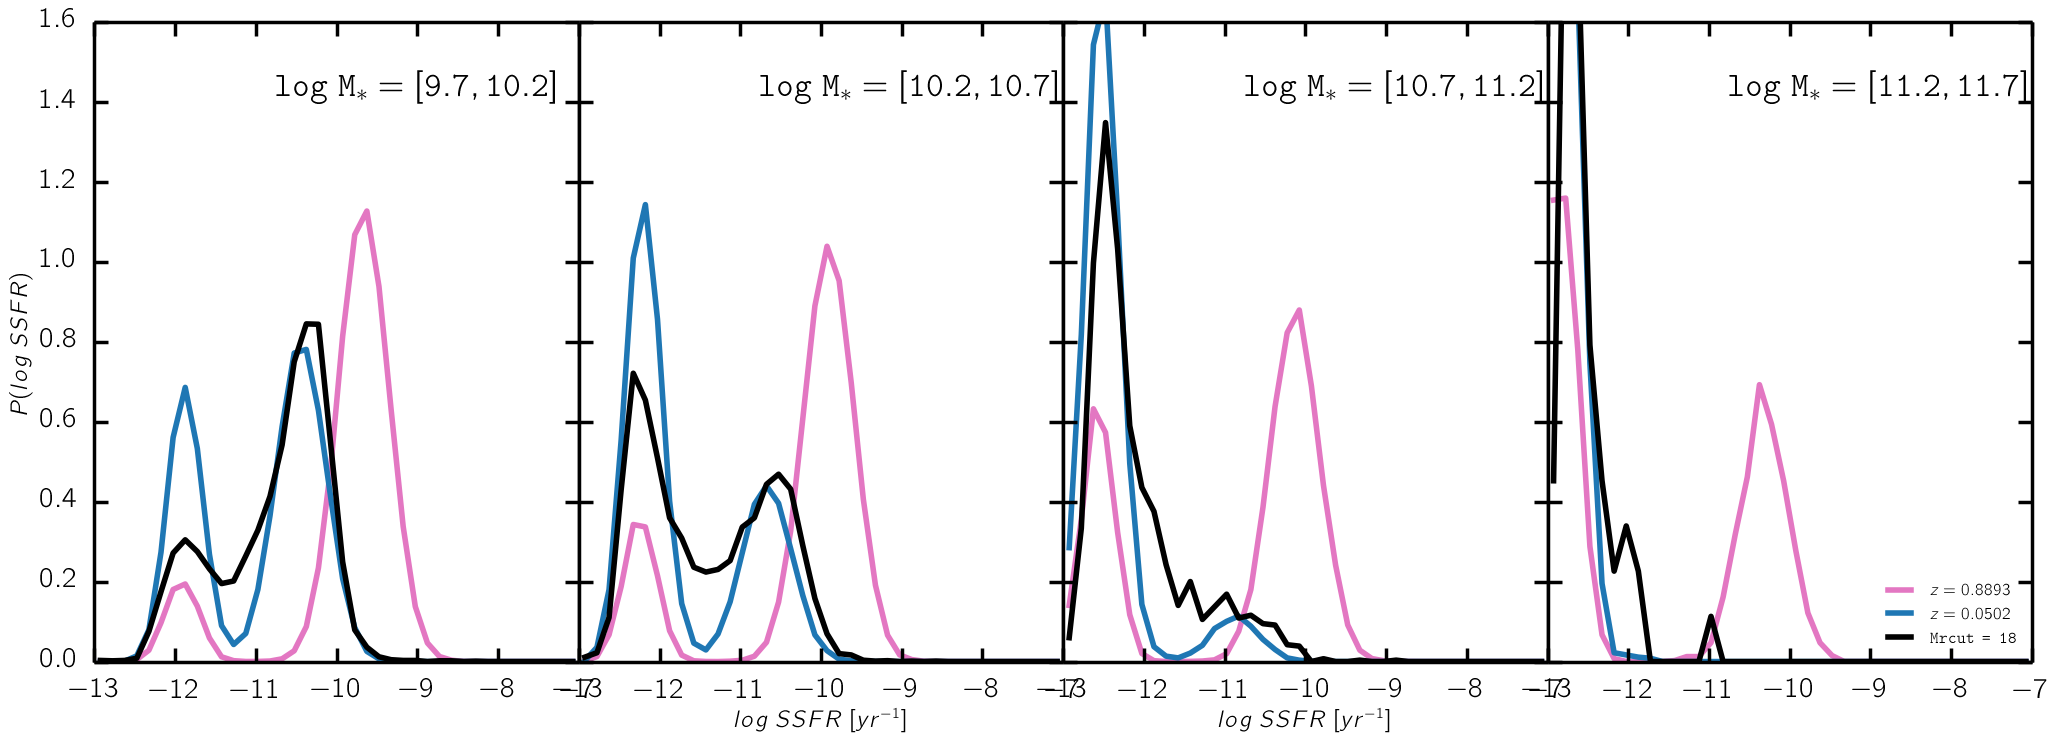
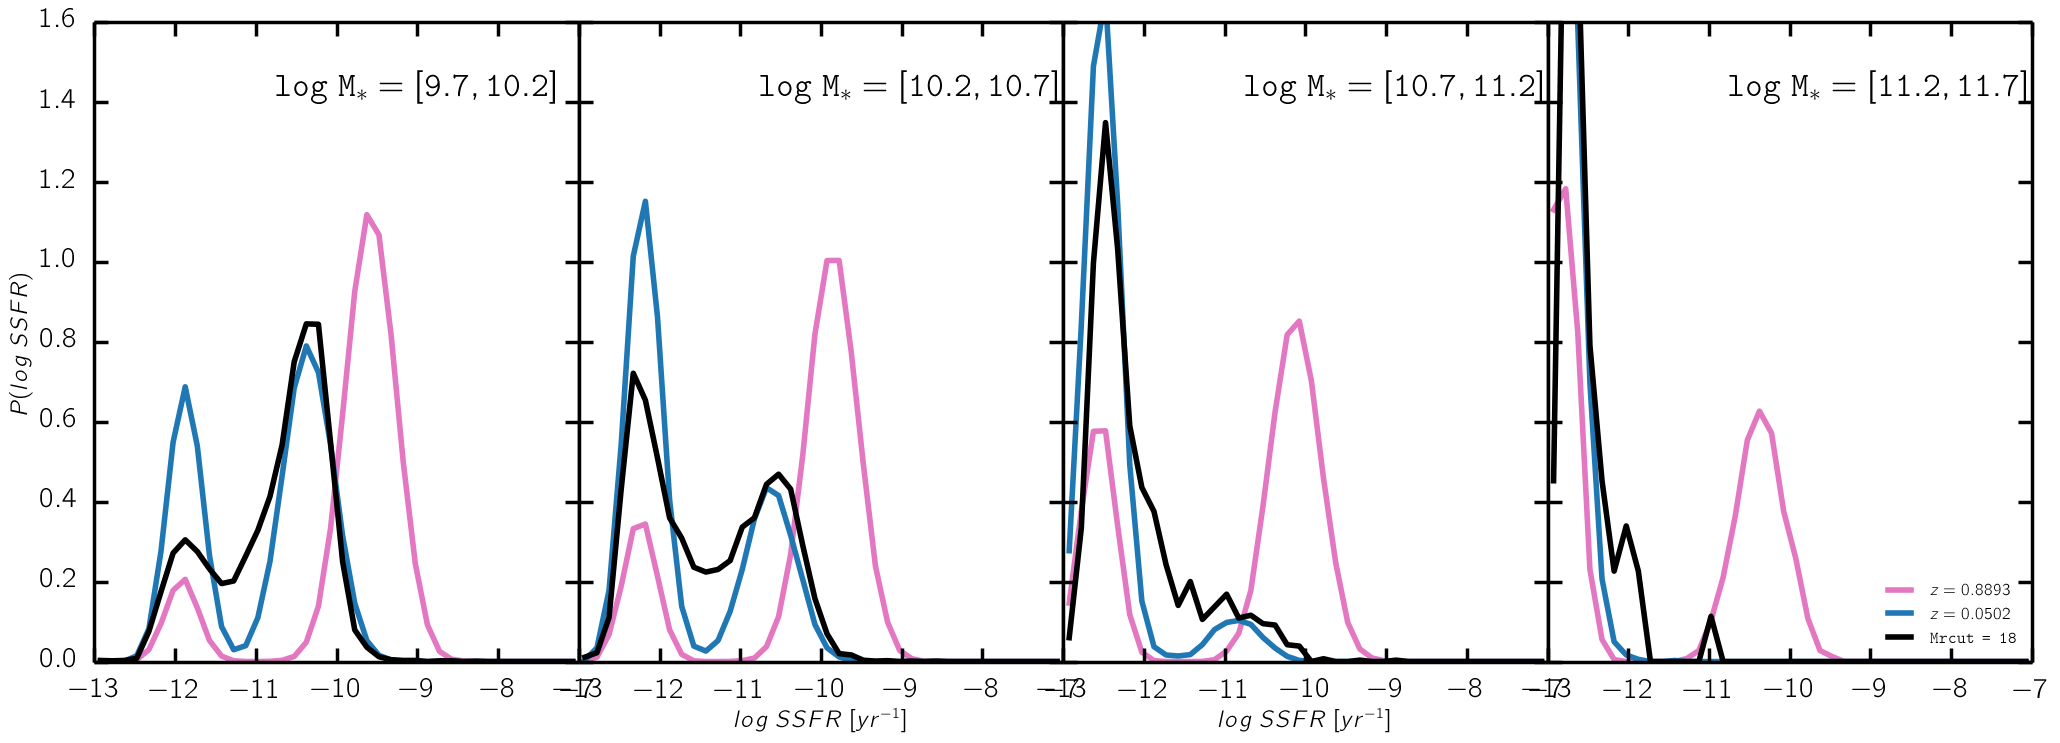
Adjustments made to SFMS fitting, but still needs work

diff --git a/cenque_plot.py b/cenque_plot.py
@@ -45,7 +45,8 @@ def plot_cenque_ssfr_dist(cenque, fig=None, **kwargs):
         # SSFR histogram 
         ssfr_hist, ssfr_bin_edges = np.histogram(cenque.ssfr[mass_limit], 
                 range=[-13.0, -7], bins=40, normed=True)
-        
+        ngal_bin = len(cenque.ssfr[mass_limit])
+
         # SSFR bins 
         ssfr_bin_low = ssfr_bin_edges[:-1]
         ssfr_bin_high = ssfr_bin_edges[1:]
@@ -78,7 +79,8 @@ def plot_cenque_ssfr_dist(cenque, fig=None, **kwargs):
         sub = fig.add_subplot(1, 4, i_mass+1)       # panel subplot 
         sub.plot(ssfr_bin_mid, ssfr_hist, 
                 color=line_color, lw=4, ls=line_style, label=ssfr_hist_label) 
-        
+
+        #sub.text(-12.0, 1.2, r'$N_{gal}='+str(ngal_bin)+'$')
         if new_plot == True:        # put mass labels in panels 
             plt.text(-10.75, 1.4, 
                     r'$\mathtt{log \; M_{*} = ['+str(panel_mass[0])+', '+str(panel_mass[1])+']}$', 
@@ -395,13 +397,11 @@ def plot_group_cat_bigauss_bestfit():
     plot_sdss_group_cat_bestfit(Mrcut=20)
 
 # SF-MS ---------------------------
-def plot_sfms_data(lowz_slope, lowz_yint, Mrcut=18): 
+def plot_sfms_data(Mrcut=18): 
     ''' Plot StarForming Main Sequence from iSEDfit data and flexible SFMS fit function 
 
     Parameters
     ----------
-    lowz_slope : designated low-z SDSS SF-MS slope
-    lowz_yint : designated low-z SDSS SF-MS y-intercept
 
     '''
     prettyplot()        # make pretty 
@@ -412,15 +412,6 @@ def plot_sfms_data(lowz_slope, lowz_yint, Mrcut=18):
 
     fig, subs = plt.subplots(1, len(zbins), figsize=[20, 5]) 
     subs = subs.ravel() 
-
-    # SDSS group catalog best fit 
-    #groupcat_slope, groupcat_yint = sfms.sdss_groupcat_sfms_bestfit()
-    #subs[0].plot(
-    #        np.array(mass_bin.mass_mid), 
-    #        (groupcat_slope * (np.array(mass_bin.mass_mid)-10.5)) + groupcat_yint, 
-    #        c='k', lw=6, ls='--') 
-
-    zmids, slopes, yints = sfms.get_sfmsfit_sfr(lowz_slope, lowz_yint, clobber=True) 
 
     fits = [] 
     for i_z, zbin in enumerate(zbins): 
@@ -445,12 +436,13 @@ def plot_sfms_data(lowz_slope, lowz_yint, Mrcut=18):
             #centrals = cq_group.central_catalog(Mrcut=Mrcut) 
             #subs[i_z].hist2d(centrals.mass, centrals.sfr, bins=[30, 1000])
             centrals = sfms.sf_centrals(Mrcut=Mrcut) 
-            subs[i_z].hist2d(centrals.mass, centrals.sfr, bins=[30, 100])
+            subs[i_z].hist2d(centrals.mass, centrals.sfr, bins=[30, 50])
 
         subs[i_z].errorbar(mass, avg_sfrs, yerr=var_sfrs, 
                 lw=4, c=pretty_colors[1], label='Avg SFR (EnvCount)')
 
         if i_z == 0: 
+            # plot bestfit line for envcount SF-MS 
             param = sfms.get_bestfit_envcount_sfms()
             subs[i_z].plot(mass, param[0]*(np.array(mass)-10.5) + param[1], 
                     c=pretty_colors[2])
@@ -474,19 +466,14 @@ def plot_sfms_data(lowz_slope, lowz_yint, Mrcut=18):
             subs[i_z].errorbar(mass, avg_sfrs, yerr=var_sfrs, 
                     lw=4, c=pretty_colors[3], label='Avg SFR (GroupCat)')
 
-        #print str(zbin[0]) + ' < ' + str(zmids[i_z]) + ' < ' + str(zbin[1])
-        subs[i_z].plot(mass, slopes[i_z]*(np.array(mass)-10.5) + yints[i_z], c=pretty_colors[2])
-    
         bestfit_sfr = [] 
         for m in mass: 
-            blah = util.get_sfr_mstar_z_bestfit(m, 0.5*(zbin[0]+zbin[1]))
+            blah = util.get_sfr_mstar_z_bestfit(m, 0.5*(zbin[0]+zbin[1]), clobber=True)
             bestfit_sfr.append(blah[0]) 
 
         subs[i_z].plot(mass, bestfit_sfr, c=pretty_colors[3])
         
         subs[i_z].text(10.0, 1.25, '$\mathtt{z \sim '+str(0.5*(zbin[0]+zbin[1]))+'}$') 
-        subs[i_z].text(10.75, -0.75,'slope= '+str('%.2f' % slopes[i_z])) 
-        subs[i_z].text(10.75, -1.0, 'y-int= '+str('%.2f' % yints[i_z])) 
 
         subs[i_z].set_xlim([9.5, 12.0]) 
         subs[i_z].set_ylim([-1.5, 1.5]) 
@@ -497,8 +484,7 @@ def plot_sfms_data(lowz_slope, lowz_yint, Mrcut=18):
         #if i_z == 3: 
         #    subs[i_z].legend()
     
-    fig_file = ''.join(['figure/tinker/', 
-        'sf_ms_data_', str("%.2f" % lowz_slope), '_', str("%.2f" % lowz_yint), '.png'])
+    fig_file = ''.join(['figure/', 'sf_ms_data.png'])
     fig.savefig(fig_file, bbox_inches='tight')
     fig.clear() 
 
@@ -542,7 +528,7 @@ def plot_sfms_groupcat(Mrcut=18):
         var_sfrs.append(var_sfr)
         
     sf_cen = sfms.sf_centrals(Mrcut=Mrcut) 
-    subs.hist2d(sf_cen.mass, sf_cen.sfr, bins=[30, 100])
+    subs.hist2d(sf_cen.mass, sf_cen.sfr, bins=[30, 50])
     #subs[i_z].scatter(centrals.mass, centrals.sfr, s=2, color=pretty_colors[3]) 
     #centrals = cq_group.central_catalog(Mrcut=19) 
     #subs[i_z].scatter(centrals.mass, centrals.sfr, s=2, color=pretty_colors[4]) 
@@ -552,7 +538,7 @@ def plot_sfms_groupcat(Mrcut=18):
     subs.errorbar(mass, avg_sfrs, yerr=var_sfrs, 
             lw=4, c=pretty_colors[1], label='Average SFR')
 
-    bestfit_params = sfms.get_bestfit_groupcat_sfms(Mrcut=Mrcut) 
+    bestfit_params = sfms.get_bestfit_groupcat_sfms(Mrcut=Mrcut, clobber=True) 
     subs.plot(mass, util.line(np.array(mass)-10.5, bestfit_params), 
             lw=4, ls='--', c=pretty_colors[2], label='MPfit line') 
     subs.text(11.25, 0.0, 'Slope = '+str("%.2f" % bestfit_params[0]))
@@ -564,8 +550,62 @@ def plot_sfms_groupcat(Mrcut=18):
     subs.set_ylabel('log(SFR)') 
     subs.legend(loc='upper right') 
     
-    fig_name = ''.join(['figure/tinker/',
-        'sf_ms_groupcat_', str(Mrcut), '.png'])
+    fig_name = ''.join(['figure/', 'sf_ms_groupcat_', str(Mrcut), '.png'])
+    fig.savefig(fig_name, bbox_inches='tight')
+    fig.clear()
+
+def plot_ssfms_groupcat(Mrcut=18):
+    ''' Plot Specific SF Main Sequence (mass vs SFR) from Star-Forming SDSS group catalog  
+
+    Parameters
+    ----------
+    None
+
+    '''
+    prettyplot()        # make pretty 
+    pretty_colors = prettycolors() 
+
+    mass_bin = util.simple_mass_bin()       # mass bin 
+
+    fig = plt.figure(1)#, figsize=[7,5])
+    subs = fig.add_subplot(111) 
+
+    mass, avg_sfrs, var_sfrs, avg_ssfrs = [], [], [], [] 
+    for i_mass in range(len(mass_bin.mass_low)): 
+        avg_sfr, var_sfr, ngal = sfms.get_sfr_mstar_z_groupcat(mass_bin.mass_mid[i_mass], 
+                Mrcut=Mrcut) 
+
+        if ngal < 10: 
+            continue    # skip mass bin if there aren't many galaxies
+
+        if mass_bin.mass_mid[i_mass] < 9.5: 
+            continue    # skip low mass
+
+        mass.append(mass_bin.mass_mid[i_mass]) 
+        avg_sfrs.append(avg_sfr)
+        var_sfrs.append(var_sfr)
+        avg_ssfrs.append(avg_sfr-mass_bin.mass_mid[i_mass])
+    
+    # 2D histogram of centrals
+    sf_cen = sfms.sf_centrals(Mrcut=Mrcut) 
+    subs.hist2d(sf_cen.mass, sf_cen.ssfr, bins=[30, 50])
+
+    subs.errorbar(mass, avg_ssfrs, yerr=var_sfrs, 
+            lw=4, c=pretty_colors[1], label='Average SFR')
+
+    bestfit_params = sfms.get_bestfit_groupcat_sfms(Mrcut=Mrcut, clobber=True) 
+    subs.plot(mass, util.line(np.array(mass)-10.5, bestfit_params) - np.array(mass), 
+            lw=4, ls='--', c=pretty_colors[2], label='MPfit line') 
+    subs.text(11.25, -10.0, 'Slope = '+str("%.2f" % bestfit_params[0]))
+    subs.text(11.25, -10.5, 'Y-int = '+str("%.2f" % bestfit_params[1]))
+
+    subs.set_xlim([9.5, 12.0]) 
+    subs.set_ylim([-9.5, -11.75]) 
+    subs.set_xlabel('log(M)') 
+    subs.set_ylabel('log(sSFR)') 
+    subs.legend(loc='upper right') 
+    
+    fig_name = ''.join(['figure/', 'ssf_ms_groupcat_', str(Mrcut), '.png'])
     fig.savefig(fig_name, bbox_inches='tight')
     fig.clear()
 
@@ -633,13 +673,16 @@ if __name__=='__main__':
     #plot_q_groupcat(Mrcut=18)
     #plot_cenque_ssfr_dist_evolution(nsnaps=[1], fq='wetzel', tau='instant') #tau='linefit', tau_param=[-0.5, 0.4])
     
-    plot_cenque_ssfr_dist_evolution(Mrcut=18, fqing_yint=-5.0, tau='instant') 
+    #plot_cenque_ssfr_dist_evolution(Mrcut=18, fqing_yint=-5.84, tau='instant') 
+    #plot_cenque_ssfr_dist_evolution(Mrcut=19, fqing_yint=-5.84, tau='instant') 
+    #plot_cenque_ssfr_dist_evolution(Mrcut=18, fqing_yint=-5.84, tau='constant') 
+    #plot_cenque_ssfr_dist_evolution(Mrcut=18, fqing_yint=-5.84, tau='linear') 
 
-    #plot_sfms_data(0.51, -0.22)
-
-    #plot_sfms_groupcat(Mrcut=18)
-    #plot_sfms_groupcat(Mrcut=19)
-    #plot_sfms_groupcat(Mrcut=20)
+    #plot_ssfms_groupcat(Mrcut=18)
+    #plot_ssfms_groupcat(Mrcut=19)
+    #plot_ssfms_groupcat(Mrcut=20)
+    
+    plot_sfms_data()
     #plot_cenque_sf_mainseq()
 
     #fq_fig = plot_fq_evol_w_geha() 

diff --git a/sf_mainseq.py b/sf_mainseq.py
@@ -274,6 +274,11 @@ def get_sfr_mstar_z_groupcat(m_star, Mrcut=18, clobber=False):
     Return
     ------
     sfr_out: star formation rate
+
+    Notes
+    -----
+    * Average is skewed due to the Star-Forming classification which includes many 'transitioning galaxies' 
+
     '''
     sf_data = sf_centrals(Mrcut=Mrcut, clobber=clobber) 
     
@@ -289,15 +294,34 @@ def get_sfr_mstar_z_groupcat(m_star, Mrcut=18, clobber=False):
             (sf_data.mass < mass_high)
 
     n_gal = len(sf_data.mass[bin_index])
-
-    if len(sf_data.sfr[bin_index]) > 0: 
-        avg_sfr = np.average(sf_data.sfr[bin_index]) 
-        var_sfr = np.average( (sf_data.sfr[bin_index] - avg_sfr)**2 ) 
+    
+    bin_sfr = sf_data.sfr[bin_index]
+    if len(sf_data.sfr[bin_index]) > 30: 
+        print 'Ngal = ', len(sf_data.sfr[bin_index])
+        med_sfr = np.median(bin_sfr)
+        avg_sfr = np.average(bin_sfr)
+        var_sfr = np.average( (bin_sfr - avg_sfr)**2 ) 
+            
+        print mass_low, mass_high, '-', med_sfr, avg_sfr, var_sfr, np.min(sf_data.sfr[bin_index]), np.max(sf_data.sfr[bin_index])
+    
+        for iter in range(3): 
+            sfr_range = (bin_sfr > med_sfr-3.0*var_sfr) & (bin_sfr < med_sfr+3.0*var_sfr)
+            
+            if np.median(bin_sfr[sfr_range]) > med_sfr: 
+                med_sfr = np.median(bin_sfr[sfr_range]) 
+                avg_sfr = np.average(bin_sfr[sfr_range]) 
+                var_sfr = np.average( (bin_sfr[sfr_range] - avg_sfr)**2 ) 
+                print mass_low, mass_high, '-', med_sfr, avg_sfr, var_sfr, np.min(sf_data.sfr[bin_index]), np.max(sf_data.sfr[bin_index])
+            else: 
+                pass
+        
+        var_sfr = np.average( (bin_sfr - avg_sfr)**2 ) 
     else: 
+        med_sfr = -999.
         avg_sfr = -999.
         var_sfr = -999.
 
-    return [avg_sfr, var_sfr, n_gal] 
+    return [med_sfr, var_sfr, n_gal] 
 
 def get_bestfit_groupcat_sfms(Mrcut=18, clobber=False):
     ''' Returns parameters for the best-fit line of the Star-forming SDSS Group Catalog (SF-MS)
@@ -316,7 +340,7 @@ def get_bestfit_groupcat_sfms(Mrcut=18, clobber=False):
     fid_mass = 10.5         # fiducial mass 
 
     save_file = ''.join(['dat/central_quenching/sf_ms/'
-        'sf_ms_fit_starforming_groupcat.hdf5']) 
+        'sf_ms_fit_starforming_groupcat_', str(Mrcut), '.hdf5']) 
     
     if (os.path.isfile(save_file) == False) or (clobber == True): 
         # if file doesn't exist save to hdf5 file 
@@ -329,7 +353,7 @@ def get_bestfit_groupcat_sfms(Mrcut=18, clobber=False):
         for mass in np.arange(9.5, 11.5, 0.25): 
             avg_sfr, var_sfr, ngal = get_sfr_mstar_z_groupcat(mass, Mrcut=Mrcut)
             
-            if ngal < 100: 
+            if ngal < 500: 
                 continue 
 
             masses.append(mass)
@@ -582,13 +606,13 @@ def get_bestfit_envcount_sfms(clobber=False):
         return [f['slope_yint/slope'][:], f['slope_yint/yint'][:]] 
 
 if __name__=='__main__':
-    print get_bestfit_groupcat_sfms(Mrcut=18) 
-    print get_bestfit_groupcat_sfms(Mrcut=19) 
-    print get_bestfit_groupcat_sfms(Mrcut=20) 
+    print get_bestfit_groupcat_sfms(Mrcut=18, clobber=True) 
+    print get_bestfit_groupcat_sfms(Mrcut=19, clobber=True) 
+    print get_bestfit_groupcat_sfms(Mrcut=20, clobber=True) 
     #build_groupcat_sf(Mrcut=18)
     #build_groupcat_sf(Mrcut=19)
     #build_groupcat_sf(Mrcut=20)
 
     # SDSS group catalog best fit 
     #groupcat_slope, groupcat_yint = sdss_groupcat_sfms_bestfit()
-    #print get_sfmsfit_sfr(groupcat_slope, groupcat_yint)
+    print get_sfmsfit_sfr(groupcat_slope, groupcat_yint)

diff --git a/cenque.py b/cenque.py
@@ -86,9 +86,10 @@ class CenQue:
         if 'sfms_slope' in kwargs.keys(): 
             sfms_sfr_fit = sfms.get_sfmsfit_sfr(kwargs['sfms_slope'], kwargs['sfms_yint'])
         else:   
-            # otherwise, just use the fit from the group catalogs (hardcoded)
-            groupcat_slope, groupcat_yint = sfms.get_bestfit_groupcat_sfms(Mrcut=18)
-            sfms_sfr_fit = sfms.get_sfmsfit_sfr(groupcat_slope, groupcat_yint)
+            pass
+            ## otherwise, just use the fit from the group catalogs (hardcoded)
+            #groupcat_slope, groupcat_yint = sfms.get_bestfit_groupcat_sfms(Mrcut=18)
+            #sfms_sfr_fit = sfms.get_sfmsfit_sfr(groupcat_slope, groupcat_yint)
         
         if (min(self.mass) < min(mass_bins.mass_low)) or (max(self.mass) > max(mass_bins.mass_high)): 
             # remove galaxies below the minimum and maximum mass
@@ -380,8 +381,9 @@ def EvolveCenQue(origin_nsnap, final_nsnap, mass_bin=None, **kwargs):
     if 'sfms_slope' in kwargs.keys(): 
         sfms_sfr_fit = sfms.get_sfmsfit_sfr(kwargs['sfms_slope'], kwargs['sfms_yint'])
     else: 
-        groupcat_slope, groupcat_yint = sfms.get_bestfit_groupcat_sfms(Mrcut=18)
-        sfms_sfr_fit = sfms.get_sfmsfit_sfr(groupcat_slope, groupcat_yint)
+        pass
+        #groupcat_slope, groupcat_yint = sfms.get_bestfit_groupcat_sfms(Mrcut=18)
+        #sfms_sfr_fit = sfms.get_sfmsfit_sfr(groupcat_slope, groupcat_yint)
   
     # import original snap SF prop 
     parent_cq = CenQue()
@@ -609,5 +611,8 @@ if __name__=='__main__':
     #EvolveCenQue(13, 1, fq='wetzel', tau='constant') 
     #EvolveCenQue(13, 1, fq='wetzel', tau='linear') 
                         
-    build_cenque_importsnap(fqing_yint=-5.0)
-    EvolveCenQue(13, 1, fqing_yint=-5.0, tau='instant')  #tau='linefit', tau_param=[-0.5, 0.4]) 
+    #build_cenque_importsnap(fqing_yint=-5.0)
+    build_cenque_importsnap(fqing_yint=-5.84)
+    EvolveCenQue(13, 1, fqing_yint=-5.84, tau='instant')  #tau='linefit', tau_param=[-0.5, 0.4]) 
+    #EvolveCenQue(13, 1, fqing_yint=-5.84, tau='constant')
+    #EvolveCenQue(13, 1, fqing_yint=-5.84, tau='linear')

diff --git a/cenque_utility.py b/cenque_utility.py
@@ -301,7 +301,7 @@ def get_sfr_mstar_z(mstar, z_in, deltamass=0.2, deltaz=0.2, lit='primusfit', mac
     else: 
         raise NameError("Not yet coded") 
 
-def get_sfr_mstar_z_bestfit(mstar, z_in, Mrcut=18):
+def get_sfr_mstar_z_bestfit(mstar, z_in, Mrcut=18, clobber=False):
     ''' Return SFR of SF main sequence as a function of mass and redshift
 
     Parameters
@@ -332,7 +332,7 @@ def get_sfr_mstar_z_bestfit(mstar, z_in, Mrcut=18):
     envcount_fit_param = sfms.get_bestfit_envcount_sfms()
     zmids, slopes, yints = sfms.get_sfmsfit_sfr(
             (envcount_fit_param[0]).item(), (envcount_fit_param[1]).item(), 
-            clobber=True)
+            clobber=clobber)
         
     d_yints = np.interp(z_in, zmids, yints) - yints[0] 
     SFR_amp = groupcat_fit_param[1] + d_yints
